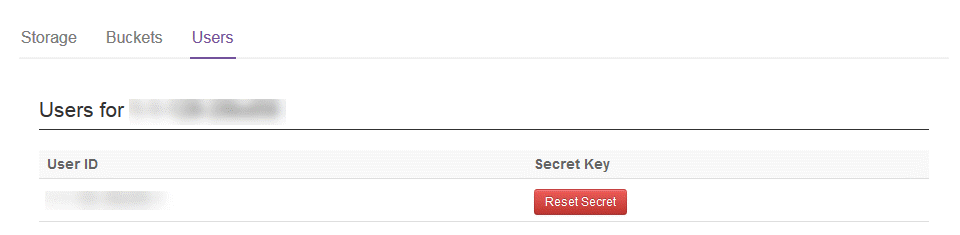
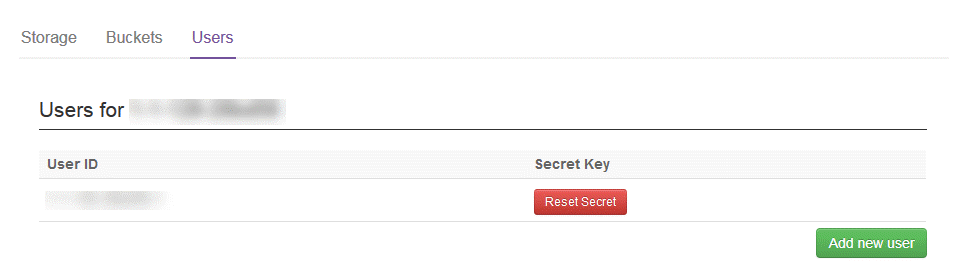
Adding article for creating new users

diff --git a/articles/cloud-storage/cs-how-view-info-portal.md b/articles/cloud-storage/cs-how-view-info-portal.md
@@ -20,13 +20,14 @@ toc_mdlink: cs-how-view-info-portal.md
 
 Cloud Storage is UKCloud's object storage solution based on Dell EMC Elastic Cloud Storage (ECS). Although you'll mostly interact with Cloud Storage through the API, the UKCloud Portal provides access to some information about your service.
 
-Within the UKCloud Portal you can:
+Within the UKCloud Portal you can view:
 
-- View information about the namespaces within your Cloud Storage environment
-- View a list of users with access to a namespace
-- Reset the secret key for a Cloud Storage user
-- View information about the buckets within a namespace
-- View a graphical representation of the storage consumed over the last 30 days
+- Information about the namespaces within your Cloud Storage environment
+- A list of users with access to a namespace
+- Information about the buckets within a namespace
+- A graphical representation of the storage consumed over the last 30 days
+
+You can also use the UKCloud Portal to create new Cloud Storage users. For more information, see [*How to create a new Cloud Storage user in the UKCloud Portal*](cs-how-create-user.md).
 
 ### Intended audience
 
@@ -93,43 +94,13 @@ In ECS, objects are stored in buckets. In the UKCloud Portal, you can drill down
 
     ![Consumption information](images/cs-portal-consumption.png)
 
-## Resetting your secret key
-
-Each user who can access Cloud Storage has an associated secret key to enable secure authentication. When attempting to access Cloud Storage, you must specify the appropriate secret key. If you forget the secret key for your user ID, you can reset it in the UKCloud Portal.
-
-> [!NOTE]
-> For security purposes, the UKCloud Portal does not display secret keys, if you forget your secret key, you must reset it to generate a new one.
-
-1. In the Portal navigation panel, expand the **Cloud Storage** option and select **ECS**.
-
-2. Click the **Users** button for the namespace for which you want to reset the secret key.
-
-    ![Users button](images/cs-portal-btn-users.png)
-
-3. The *Users* tab lists the different user IDs associated with the namespace.
-
-    ![Users page](images/cs-portal-users.png)
-
-4. Click the **Reset Secret** button next to the appropriate user ID.
-
-5. Click **OK** to confirm that you want to reset the secret key.
-
-    ![Reset Secret dialog box](images/cs-portal-reset-secret.png)
-
-6. Stay on the current page until a popup dialog box displays the new secret key.
-
-    ![New secret key](images/cs-portal-new-key.png)
-
-7. Make a note of the key and then click **Close**.
-
-    > [!NOTE]
-    > After you close this dialog box, you will not be able to see the secret key again in the UKCloud Portal. If you do not make a note of the secret key or if you forget or lose it, you will need to reset it again.
-
 ## Next steps
 
-This guide has shown you how you can view information about your Cloud Storage service in the UKCloud Portal. For information about how to use the service, see the following articles in the Knowledge Centre:
+This guide has shown you how you can view information about your Cloud Storage service in the UKCloud Portal. For information about how to use the service, see the following articles:
 
 - [*Getting Started Guide for Cloud Storage*](cs-gs.md)
+- [*How to create a new Cloud Storage user in the UKCloud Portal*](cs-how-create-user.md)
+- [*How to reset your Cloud Storage secret key*](cs-how-reset-secret-key.md)
 - [*Blueprint -- Using storage gateways with Cloud Storage*](https://ukcloud.com/wp-content/uploads/2016/04/UKC-GEN-574-Blueprint-Using-storage-gateways-with-Cloud-Storage-ECS-v1.pdf)
 - [*Blueprint -- Using file browsers with Cloud Storage*](https://ukcloud.com/wp-content/uploads/2016/04/UKC-GEN-575-Blueprint-Using-file-browsers-with-Cloud-Storage-ECS-v1.pdf)
 

diff --git a/articles/cloud-storage/cs-how-reset-secret-key.md b/articles/cloud-storage/cs-how-reset-secret-key.md
@@ -1,0 +1,70 @@
+---
+title: How to reset your Cloud Storage secret key | UKCloud Ltd
+description: Describes how to reset your Cloud Storage secret key
+services: cloud-storage
+author: Sue Highmoor
+
+toc_rootlink: How To
+toc_sub1:
+toc_sub2:
+toc_sub3:
+toc_sub4:
+toc_title: Reset your Cloud Storage secret key
+toc_fullpath: How To/cs-how-reset-secret-key.md
+toc_mdlink: cs-how-reset-secret-key.md
+---
+
+# How to reset your Cloud Storage secret key
+
+## Overview
+
+Cloud Storage is UKCloud's object storage solution based on Dell EMC Elastic Cloud Storage (ECS).
+
+Each user who can access Cloud Storage has an associated secret key to enable secure authentication. When attempting to access Cloud Storage, you must specify the appropriate secret key. If you forget the secret key for your user ID, you can reset it in the UKCloud Portal.
+
+### Intended audience
+
+To complete the steps in this guide you must have been granted access to the relevant namespace.
+
+## Resetting your secret key
+
+For security purposes, the UKCloud Portal does not display secret keys, if you forget your secret key, you must reset it to generate a new one.
+
+1. In the Portal navigation panel, expand the **Cloud Storage** option and select **ECS**.
+
+2. Click the **Users** button for the namespace for which you want to reset the secret key.
+
+    ![Users button](images/cs-portal-btn-users.png)
+
+3. The *Users* tab lists the different user IDs associated with the namespace.
+
+    ![Users page](images/cs-portal-users.png)
+
+4. Click the **Reset Secret** button next to the appropriate user ID.
+
+5. Click **OK** to confirm that you want to reset the secret key.
+
+    ![Reset Secret dialog box](images/cs-portal-reset-secret.png)
+
+6. Stay on the current page until a popup dialog box displays the new secret key.
+
+    ![New secret key](images/cs-portal-new-key.png)
+
+7. Make a note of the key and then click **Close**.
+
+    > [!NOTE]
+    > After you close this dialog box, you will not be able to see the secret key again in the UKCloud Portal. If you do not make a note of the secret key or if you forget or lose it, you will need to reset it again.
+
+## Next steps
+
+This guide has shown you how to reset your Cloud Storage secret key. For information about how to use the service, see the following articles:
+
+- [*Getting Started Guide for Cloud Storage*](cs-gs.md)
+- [*How to create a new Cloud Storage user in the UKCloud Portal*](cs-how-create-user.md)
+- [*How to view Cloud Storage information in the UKCloud Portal*](cs-how-view-info-portal.md)
+- [*Blueprint -- Using storage gateways with Cloud Storage*](https://ukcloud.com/wp-content/uploads/2016/04/UKC-GEN-574-Blueprint-Using-storage-gateways-with-Cloud-Storage-ECS-v1.pdf)
+- [*Blueprint -- Using file browsers with Cloud Storage*](https://ukcloud.com/wp-content/uploads/2016/04/UKC-GEN-575-Blueprint-Using-file-browsers-with-Cloud-Storage-ECS-v1.pdf)
+
+## Feedback
+
+If you have any comments on this document or any other aspect of your UKCloud experience, send them to <products@ukcloud.com>.

diff --git a/articles/cloud-storage/cs-how-create-user.md b/articles/cloud-storage/cs-how-create-user.md
@@ -1,0 +1,62 @@
+---
+title: How to create a new Cloud Storage user in the UKCloud Portal | UKCloud Ltd
+description: Describes how to create a new Cloud Storage user in the UKCloud Portal
+services: cloud-storage
+author: Sue Highmoor
+
+toc_rootlink: How To
+toc_sub1:
+toc_sub2:
+toc_sub3:
+toc_sub4:
+toc_title: Create a new Cloud Storage user
+toc_fullpath: How To/cs-how-create-user.md
+toc_mdlink: cs-how-create-user.md
+---
+
+# How to create a new Cloud Storage user in the UKCloud Portal
+
+## Overview
+
+Cloud Storage is UKCloud's object storage solution based on Dell EMC Elastic Cloud Storage (ECS). Although you'll mostly interact with Cloud Storage through the API, you can create new Cloud Storage users in the UKCloud Portal.
+
+### Intended audience
+
+To complete the steps in this guide you must have been granted access to the relevant namespace.
+
+## Creating a new Cloud Storage user
+
+To create a new Cloud Storage user:
+
+1. In the Portal navigation panel, expand the **Cloud Storage** option and select **ECS**.
+
+2. On the *Storage* tab, click the **Users** button for the namespace in which you want to create the new user:
+
+    ![Users button](images/cs-portal-btn-users.png)
+
+3. The **Users** tab lists the different user IDs associated with the namespace.
+
+    ![Users page](images/cs-portal-users.png)
+
+4. Click the **Add new user** button.
+
+5. In the *Create ECS User* dialog box, make a note of the **User ID** and **Secret Key** and then click **Close**.
+
+    > [!NOTE]
+    > After you close this dialog box, you will not be able to see the secret key again in the UKCloud Portal. If you do not make a note of the secret key or if you forget or lose it, you will need to reset it again. For information about how to do this, see [*How to reset your Cloud Storage secret key*](cs-how-reset-secret-key.md).
+
+    ![Create ECS User dialog box](images/cs-portal-new-user.png)
+
+## Next steps
+
+This guide has shown you how to create a new Cloud Storage user. For more information about how to use the service, see the following articles:
+
+- [*Getting Started Guide for Cloud Storage*](cs-gs.md)
+- [*How to view Cloud Storage information in the UKCloud Portal*](cs-how-view-info-portal.md)
+- [*How to reset your Cloud Storage secret key*](cs-how-reset-secret-key.md)
+- [*Blueprint -- Using storage gateways with Cloud Storage*](https://ukcloud.com/wp-content/uploads/2016/04/UKC-GEN-574-Blueprint-Using-storage-gateways-with-Cloud-Storage-ECS-v1.pdf)
+- [*Blueprint -- Using file browsers with Cloud Storage*](https://ukcloud.com/wp-content/uploads/2016/04/UKC-GEN-575-Blueprint-Using-file-browsers-with-Cloud-Storage-ECS-v1.pdf)
+
+## Feedback
+
+If you have any comments on this document or any other aspect of your UKCloud experience, send them to <products@ukcloud.com>.

diff --git a/articles/cloud-storage/cs-gs.md b/articles/cloud-storage/cs-gs.md
@@ -368,6 +368,7 @@ To access your Cloud Storage service in the UKCloud Portal:
 In this Getting Started Guide, you've learned the basics about the Cloud Storage service. For more detailed information, see the following articles in the Knowledge Centre:
 
 - [*How to view Cloud Storage information in the UKCloud Portal*](cs-how-view-info-portal.md)
+- [*How to create a new Cloud Storage user in the UKCloud Portal*](cs-how-create-user.md)
 - [*Blueprint -- Using storage gateways with Cloud Storage (ECS)*](https://ukcloud.com/wp-content/uploads/2016/04/UKC-GEN-574-Blueprint-Using-storage-gateways-with-Cloud-Storage-ECS-v1.pdf)
 - [*Blueprint -- Using file browsers with Cloud Storage (ECS)*](https://ukcloud.com/wp-content/uploads/2016/04/UKC-GEN-575-Blueprint-Using-file-browsers-with-Cloud-Storage-ECS-v1.pdf)
 
